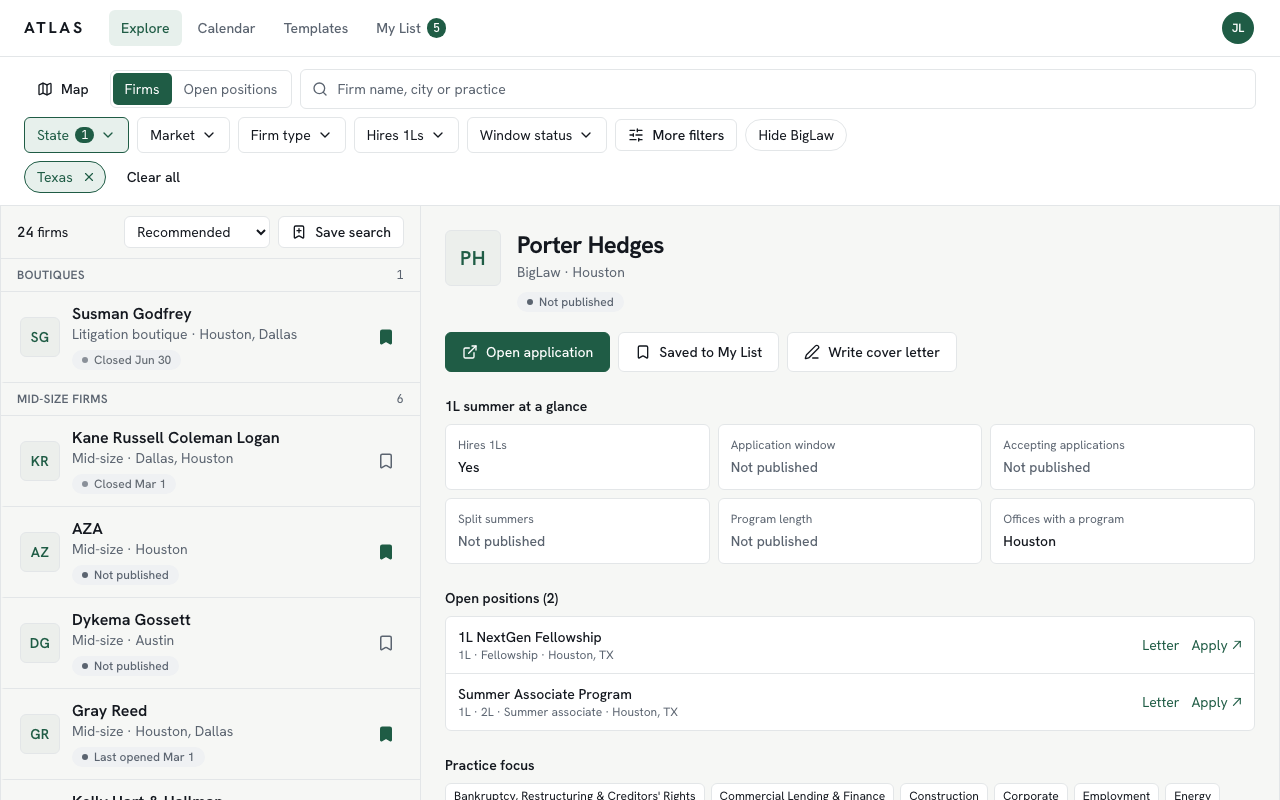
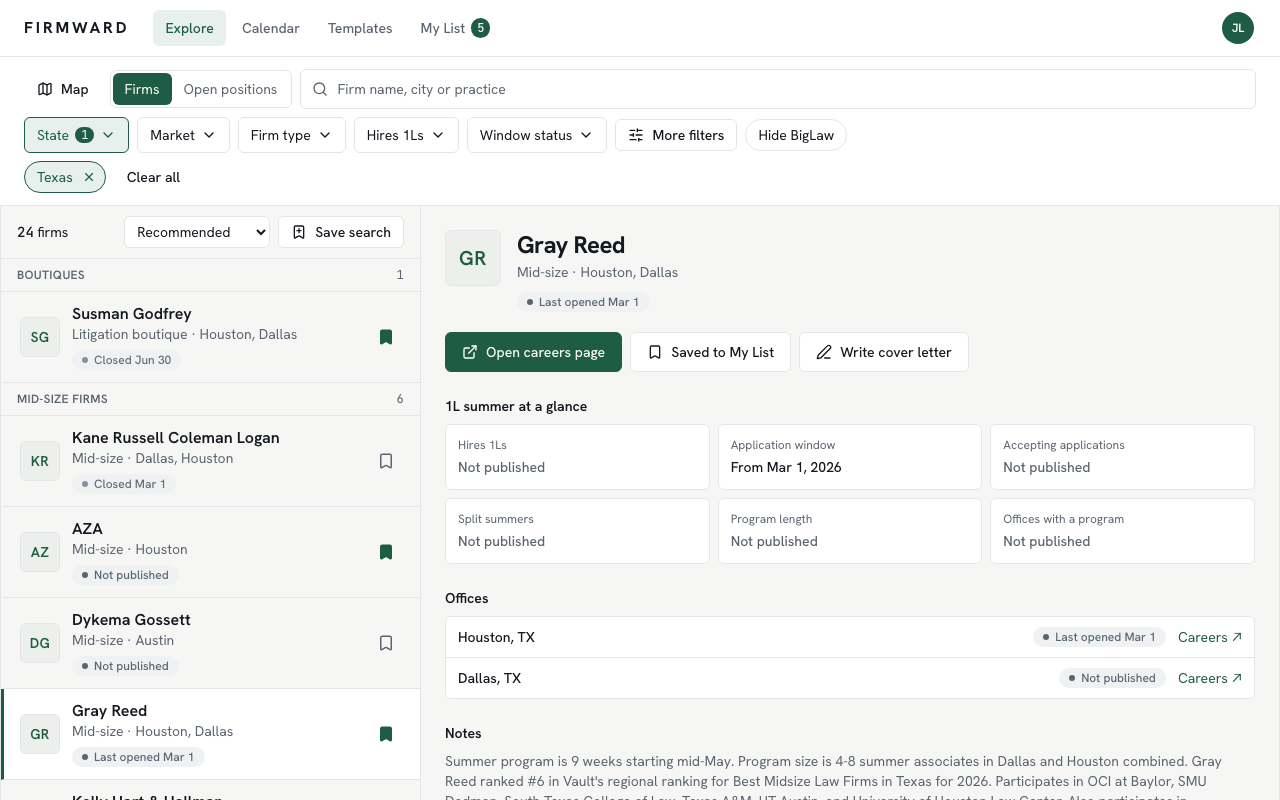
Rename the product from Atlas to Firmward
Every user-facing mention (wordmark, page titles, copy, FAQ, SEO text,
download file names, calendar files, error messages), the scraper's
user agent, package and Docker image names, and the README titles.
Internal identifiers students never see stay as they are: the
_atlas_migrations table, the atlas-profile source label and the
atlas_pro_monthly Stripe lookup key. The us-atlas map package is
unrelated. How-it-works screenshots recaptured with the new name.

diff --git a/src/pages/SeoList.jsx b/src/pages/SeoList.jsx
@@ -61,8 +61,8 @@ function Page({ kind }) {
         heading: `Law firms hiring 1Ls in ${office?.city ?? place}`,
         firmsHere: here,
         intro: here.length
-          ? `Atlas tracks ${here.length} firm${here.length === 1 ? '' : 's'} with an office in ${place}. ${summary(here)}`
-          : `Atlas doesn’t have firms in ${place} yet.`,
+          ? `Firmward tracks ${here.length} firm${here.length === 1 ? '' : 's'} with an office in ${place}. ${summary(here)}`
+          : `Firmward doesn’t have firms in ${place} yet.`,
         description: `${here.length} law firms in ${place} for 1L summer jobs: boutiques, mid-size and regional firms first, with hiring status, application windows and direct links.`,
       };
     }
@@ -75,8 +75,8 @@ function Page({ kind }) {
       intro: !type
         ? ''
         : here.length
-          ? `Atlas tracks ${here.length} ${NOUN[slug][here.length === 1 ? 0 : 1]} across ${states} state${states === 1 ? '' : 's'}. ${here.filter((f) => f.hires === 'yes').length} confirmed to hire 1Ls.`
-          : `Atlas doesn’t have ${NOUN[slug][1]} yet. We’re adding employers regularly.`,
+          ? `Firmward tracks ${here.length} ${NOUN[slug][here.length === 1 ? 0 : 1]} across ${states} state${states === 1 ? '' : 's'}. ${here.filter((f) => f.hires === 'yes').length} confirmed to hire 1Ls.`
+          : `Firmward doesn’t have ${NOUN[slug][1]} yet. We’re adding employers regularly.`,
       description: type ? `${type.label} law firms for 1L summer jobs, with hiring status, application windows and direct application links.` : '',
     };
   }, [firms, kind, slug]);
@@ -84,7 +84,7 @@ function Page({ kind }) {
   const ranked = useMemo(() => recommended(firmsHere, null), [firmsHere]);
 
   useEffect(() => {
-    if (!loading) setMeta(`${heading} — Atlas`, description);
+    if (!loading) setMeta(`${heading} — Firmward`, description);
   }, [heading, description, loading]);
 
   const open = (f) => navigate(session ? `/firms/${f.slug}` : `/?next=${encodeURIComponent(`/firms/${f.slug}`)}`);
@@ -94,7 +94,7 @@ function Page({ kind }) {
     <div className="mx-auto max-w-3xl px-4 pb-24 pt-6 md:px-6 md:pb-12">
       <nav aria-label="Breadcrumb" className="text-t12 text-fg-2">
         <Link to="/" className="inline-flex min-h-[44px] items-center hover:underline md:min-h-0">
-          Atlas
+          Firmward
         </Link>{' '}
         / {kind === 'market' ? 'Markets' : 'Firm types'}
       </nav>

diff --git a/src/pages/Home.jsx b/src/pages/Home.jsx
@@ -20,11 +20,11 @@ const CLASS_YEARS = [
 const NON_BIGLAW = FIRM_TYPES.filter((t) => t.value !== 'biglaw');
 
 const FAQ = [
-  ['Is Atlas free?', 'Yes. The firm directory, the state map, My List tracking, the recruiting calendar, templates and template cover letters are free. Pro ($4.99 a month) adds AI that reads your resume, rewrites your bullets and writes a cover letter for each firm.'],
+  ['Is Firmward free?', 'Yes. The firm directory, the state map, My List tracking, the recruiting calendar, templates and template cover letters are free. Pro ($4.99 a month) adds AI that reads your resume, rewrites your bullets and writes a cover letter for each firm.'],
   ['Where does the information come from?', 'From each firm’s own careers page, checked on a schedule. Every firm shows when it was last verified and links to the source, so you can confirm before you apply.'],
   ['Which firms are included?', 'Litigation and specialty boutiques, plaintiff firms, mid-size and regional firms, government offices and public interest employers. BigLaw is included, but it isn’t the focus, and it always sorts last.'],
-  ['Does Atlas apply for me?', 'No. Every firm links to its own application. Atlas helps you find the right firms, prepare your materials and keep track of where you stand with each one.'],
-  ['Is this legal advice? Is Atlas affiliated with my school?', 'No to both. Atlas is career information, and it isn’t affiliated with or endorsed by any law school or law firm.'],
+  ['Does Firmward apply for me?', 'No. Every firm links to its own application. Firmward helps you find the right firms, prepare your materials and keep track of where you stand with each one.'],
+  ['Is this legal advice? Is Firmward affiliated with my school?', 'No to both. Firmward is career information, and it isn’t affiliated with or endorsed by any law school or law firm.'],
 ];
 
 const STEPS = [
@@ -265,7 +265,7 @@ export default function Home() {
   const [onboarding, setOnboarding] = useState(false);
 
   useEffect(() => {
-    document.title = 'Atlas — Firms that hire 1Ls, beyond BigLaw';
+    document.title = 'Firmward — Firms that hire 1Ls, beyond BigLaw';
   }, []);
 
   const toForm = () => {

diff --git a/src/pages/MyList.jsx b/src/pages/MyList.jsx
@@ -290,7 +290,7 @@ function MyListPage() {
   const { session } = useSession();
   const [view, setView] = useState(() => {
     try {
-      return localStorage.getItem('atlas.mylist-view') ?? 'table';
+      return localStorage.getItem('firmward.mylist-view') ?? 'table';
     } catch {
       return 'table';
     }
@@ -298,11 +298,11 @@ function MyListPage() {
   const [searches, setSearches] = useState([]);
 
   useEffect(() => {
-    document.title = 'My List — Atlas';
+    document.title = 'My List — Firmward';
   }, []);
   useEffect(() => {
     try {
-      localStorage.setItem('atlas.mylist-view', view);
+      localStorage.setItem('firmward.mylist-view', view);
     } catch {
       // ignore
     }
@@ -355,7 +355,7 @@ function MyListPage() {
     setSearches((list) => list.filter((x) => x.id !== s.id));
     if (String(s.id).startsWith('local-')) {
       try {
-        const key = `atlas.saved-searches.${session.user.id}`;
+        const key = `firmward.saved-searches.${session.user.id}`;
         localStorage.setItem(key, JSON.stringify(JSON.parse(localStorage.getItem(key) ?? '[]').filter((x) => x.id !== s.id)));
       } catch {
         // ignore

diff --git a/worker/extract.js b/worker/extract.js
@@ -17,7 +17,7 @@ export function getClient() {
 }
 
 // Stable system prompt. At ~600 tokens it is below Haiku 4.5's 4096-token cache minimum, so no cache_control.
-const SYSTEM = `You extract law-student job opportunities from a law firm or legal employer's careers page for ATLAS, a directory for 1L/2L/3L law students.
+const SYSTEM = `You extract law-student job opportunities from a law firm or legal employer's careers page for FIRMWARD, a directory for 1L/2L/3L law students.
 
 Return listings only for roles open to CURRENT law students: summer associate programs, 1L/2L diversity or summer programs, law clerk positions for students, legal internships/externships, and student fellowships. Exclude lateral attorney, associate, partner, staff, paralegal and non-legal roles, and post-graduate positions that require a completed J.D. (judicial clerkships for graduates are excluded unless the page says students apply now as 3Ls).
 

diff --git a/index.html b/index.html
@@ -5,7 +5,7 @@
     <link rel="icon" type="image/svg+xml" href="/favicon.svg" />
     <meta name="viewport" content="width=device-width, initial-scale=1.0" />
     <meta name="description" content="Find boutique, plaintiff, mid-size, regional and public interest firms that hire 1Ls, with application windows, direct links and a tracker." />
-    <title>Atlas — Firms that hire 1Ls, beyond BigLaw</title>
+    <title>Firmward — Firms that hire 1Ls, beyond BigLaw</title>
     <link rel="preconnect" href="https://fonts.googleapis.com" />
     <link rel="preconnect" href="https://fonts.gstatic.com" crossorigin />
     <link href="https://fonts.googleapis.com/css2?family=Hanken+Grotesk:wght@400;500;600;700&family=JetBrains+Mono:wght@400;500&family=Newsreader:opsz,wght@6..72,400;6..72,600&display=swap" rel="stylesheet" />

diff --git a/src/pages/dev/Components.jsx b/src/pages/dev/Components.jsx
@@ -59,7 +59,7 @@ export default function ComponentsGallery() {
   const [sheet, setSheet] = useState(false);
 
   useEffect(() => {
-    document.title = 'Components — Atlas';
+    document.title = 'Components — Firmward';
   }, []);
 
   const toggleSave = (f) =>
@@ -75,7 +75,7 @@ export default function ComponentsGallery() {
       <main className="mx-auto max-w-app px-4 py-10 md:px-8">
         <h1 className="text-t32 font-bold tracking-tight">Components</h1>
         <p className="mt-2 max-w-2xl text-t16 text-fg-2">
-          The base set for the new Atlas. Everything here is live: click, tab and use the arrow keys. Sample data.
+          The base set for the new Firmward. Everything here is live: click, tab and use the arrow keys. Sample data.
         </p>
 
         <Section title="Color">

diff --git a/src/components/Footer.jsx b/src/components/Footer.jsx
@@ -40,7 +40,7 @@ export default function Footer() {
     <footer className="app no-print border-t border-line bg-card pb-16 md:pb-0">
       <div className="mx-auto max-w-app px-4 py-10 md:px-6">
         <div className="grid gap-8 sm:grid-cols-3">
-          <Col title="Atlas" links={[['Explore', '/explore'], ['Calendar', '/calendar'], ['Templates', '/templates'], ['My List', '/my-list'], ['Pro', '/pro']]} />
+          <Col title="Firmward" links={[['Explore', '/explore'], ['Calendar', '/calendar'], ['Templates', '/templates'], ['My List', '/my-list'], ['Pro', '/pro']]} />
           <Col title="Markets" links={MARKETS.map(([l, s]) => [l, `/markets/${s}`])} />
           <Col title="Firm types" links={TYPES.map(([l, s]) => [l, `/types/${s}`])} />
         </div>

diff --git a/src/pages/Templates.jsx b/src/pages/Templates.jsx
@@ -5,14 +5,14 @@ import { Button } from '../components/app/controls';
 import { Modal } from '../components/app/overlays';
 import { downloadDoc, printDocument } from '../lib/documents';
 
-const download = (t) => downloadDoc(`atlas-${t.slug}.doc`, t.title, t.body);
+const download = (t) => downloadDoc(`firmward-${t.slug}.doc`, t.title, t.body);
 
 export default function Templates() {
   const [open, setOpen] = useState(null);
   const current = TEMPLATES.find((t) => t.slug === open);
 
   useEffect(() => {
-    document.title = 'Templates — Atlas';
+    document.title = 'Templates — Firmward';
   }, []);
 
   return (

diff --git a/src/components/resume/ResumeBuilder.jsx b/src/components/resume/ResumeBuilder.jsx
@@ -3,7 +3,7 @@ import { api } from '../../lib/api';
 import { answersToResume } from '../../lib/resumeFormat';
 import { Button, FieldLabel as Label, Input as TextField } from '../app/controls';
 
-const draftKey = (profile) => `atlas.resume-draft.${profile?.id ?? 'anon'}`;
+const draftKey = (profile) => `firmward.resume-draft.${profile?.id ?? 'anon'}`;
 const GRAD = { '1L': 'May 2029', '2L': 'May 2028', '3L': 'May 2027', transfer: 'May 2029', incoming: 'May 2030' };
 
 const blankJob = () => ({ employer: '', location: '', title: '', start: '', end: '', what_you_did: '' });

diff --git a/worker/index.js b/worker/index.js
@@ -217,7 +217,7 @@ async function main() {
   process.on('SIGTERM', () => stop('SIGTERM'));
   process.on('SIGINT', () => stop('SIGINT'));
 
-  log(`atlas worker: mode=${config.extractMode} cycle=${config.cycleSeconds}s concurrency=${config.concurrency} budget=$${config.monthlyBudgetUsd}/mo${once ? ' (once)' : ''}`);
+  log(`firmward worker: mode=${config.extractMode} cycle=${config.cycleSeconds}s concurrency=${config.concurrency} budget=$${config.monthlyBudgetUsd}/mo${once ? ' (once)' : ''}`);
   try {
     while (!stopping) {
       const started = Date.now();

diff --git a/src/components/app/AppNav.jsx b/src/components/app/AppNav.jsx
@@ -96,7 +96,7 @@ export default function AppNav() {
       <header className="app no-print sticky top-0 z-30 border-b border-line bg-card">
         <nav aria-label="Main" className="mx-auto flex h-14 max-w-app items-center gap-6 px-4 md:px-6">
           <Link to="/" className="inline-flex min-h-[44px] items-center text-t16 font-bold tracking-[0.18em] text-fg">
-            ATLAS
+            FIRMWARD
           </Link>
           <ul className="hidden items-center gap-1 md:flex">
             {LINKS.map(({ to, label, count: showCount }) => (

diff --git a/src/components/explore/FirmDetail.jsx b/src/components/explore/FirmDetail.jsx
@@ -121,7 +121,7 @@ export default function FirmDetail({ firm, listings = [], similar = [], saved, o
                 title: `${firm.name}: 1L application ${deadline === deadlineOffice.end ? 'deadline' : 'opens'}`,
                 date: deadline,
                 url: firm.applyUrl ?? firm.careersUrl ?? '',
-                description: 'From Atlas. Check the firm’s page for the current deadline.',
+                description: 'From Firmward. Check the firm’s page for the current deadline.',
               })
             }
           >
